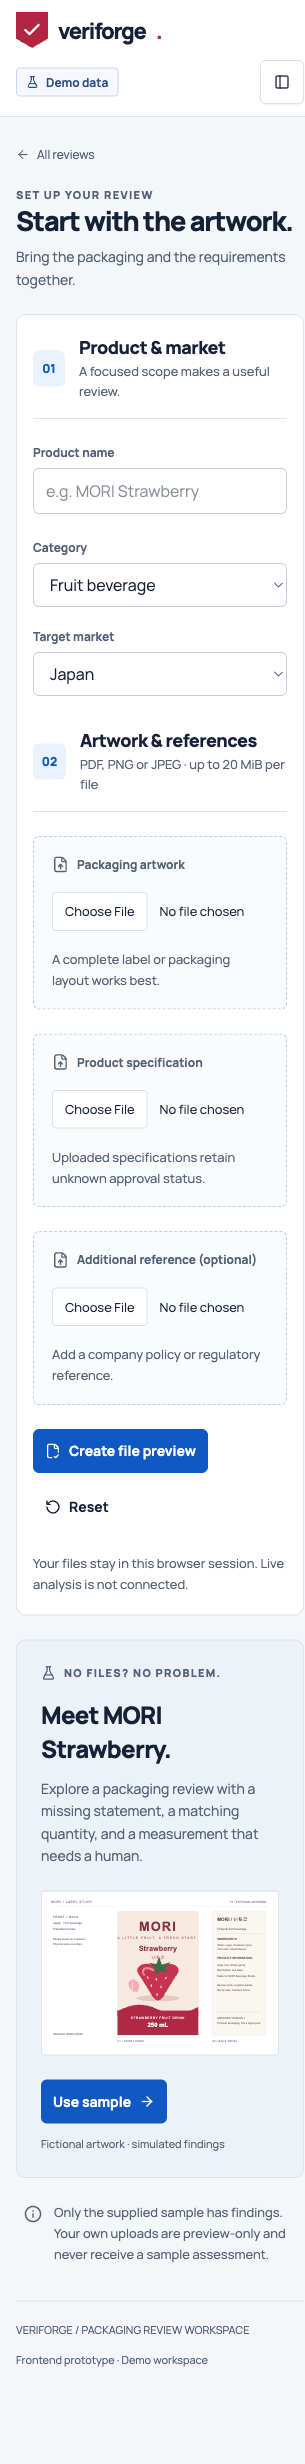
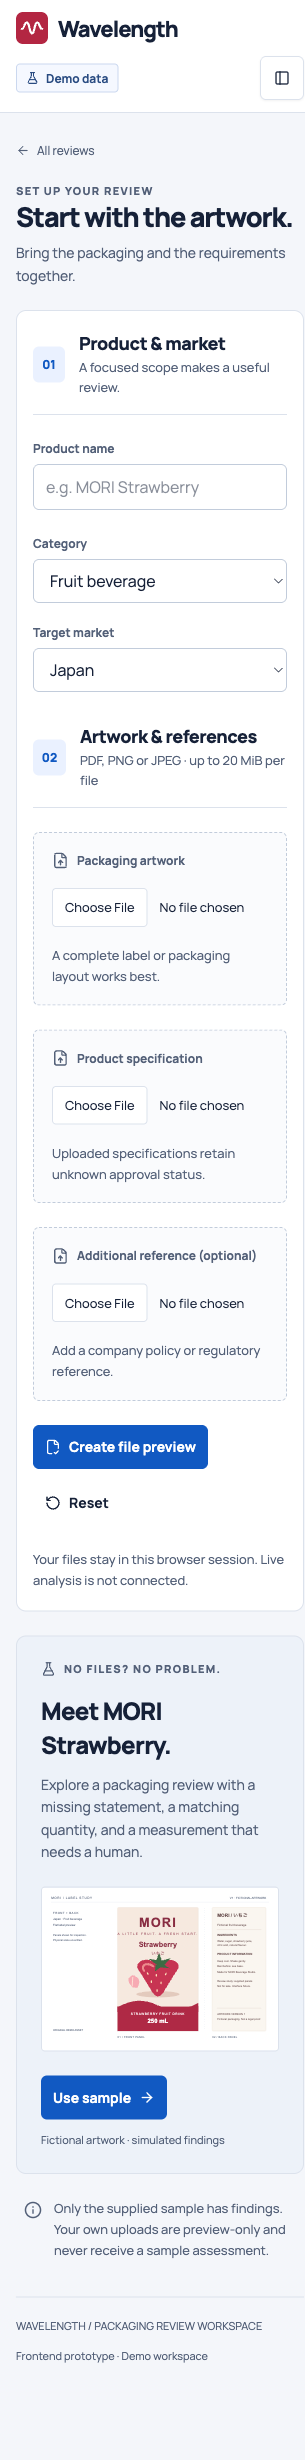
Rename product to Wavelength and unify wordmark and wave identity

diff --git a/frontend/public/demo/sample-specification.html b/frontend/public/demo/sample-specification.html
@@ -1,1 +1,1 @@
-<!doctype html><html lang="en"><meta charset="utf-8"><meta name="viewport" content="width=device-width"><title>Fictional product specification · Veriforge demo</title><style>body{font:17px/1.7 system-ui;color:#162138;max-width:720px;margin:48px auto;padding:24px;background:#f4f6fa}h1{line-height:1.2}section{background:white;padding:24px;margin:16px 0;border:1px solid #dce2ec;border-radius:10px}a{color:#1159c2}</style><body><p>VERIFORGE / ORIGINAL DEMO REFERENCE</p><h1>Fictional product specification</h1><p>Revision 1 · Temporary M1–M2 interface fixture. This document describes invented products. It is not an external regulatory source.</p><section><h2>1 · Product identity</h2><p>MORI Strawberry · Japan · Fruit beverage. Beverage specification status: fictionally approved for this sample.</p></section><section><h2>2 · Net content</h2><p>Declared net content: <strong>250 mL</strong>. Sample juice composition: 2% total juice, all strawberry, no pulp.</p></section><section><h2>3 · Physical scale</h2><p>Physical measurements are not established by this digital preview. The passed V2 sample selects text presence and net quantity only; printed type size remains outside that sample's scope.</p></section><section><h2>4 · Allergen review</h2><p>Fieldwork Berry Granola · United States · Specification status: <strong>DRAFT</strong>. Allergen declaration is awaiting product-owner confirmation. This reference cannot establish an approved requirement.</p></section><a href="/dashboard">Return to dashboard</a></body></html>
+<!doctype html><html lang="en"><meta charset="utf-8"><meta name="viewport" content="width=device-width"><link rel="icon" href="/icon.svg"><title>Fictional product specification · Wavelength demo</title><style>body{font:17px/1.7 system-ui;color:#162138;max-width:720px;margin:48px auto;padding:24px;background:#f4f6fa}h1{line-height:1.2}section{background:white;padding:24px;margin:16px 0;border:1px solid #dce2ec;border-radius:10px}a{color:#1159c2}</style><body><p>WAVELENGTH / ORIGINAL DEMO REFERENCE</p><h1>Fictional product specification</h1><p>Revision 1 · Temporary M1–M2 interface fixture. This document describes invented products. It is not an external regulatory source.</p><section><h2>1 · Product identity</h2><p>MORI Strawberry · Japan · Fruit beverage. Beverage specification status: fictionally approved for this sample.</p></section><section><h2>2 · Net content</h2><p>Declared net content: <strong>250 mL</strong>. Sample juice composition: 2% total juice, all strawberry, no pulp.</p></section><section><h2>3 · Physical scale</h2><p>Physical measurements are not established by this digital preview. The passed V2 sample selects text presence and net quantity only; printed type size remains outside that sample's scope.</p></section><section><h2>4 · Allergen review</h2><p>Fieldwork Berry Granola · United States · Specification status: <strong>DRAFT</strong>. Allergen declaration is awaiting product-owner confirmation. This reference cannot establish an approved requirement.</p></section><a href="/dashboard">Return to dashboard</a></body></html>

diff --git a/frontend/public/demo/sample-checklist.html b/frontend/public/demo/sample-checklist.html
@@ -1,1 +1,1 @@
-<!doctype html><html lang="en"><meta charset="utf-8"><meta name="viewport" content="width=device-width"><title>Illustrative review checklist · Veriforge demo</title><style>body{font:17px/1.7 system-ui;color:#162138;max-width:720px;margin:48px auto;padding:24px;background:#f4f6fa}h1{line-height:1.2}section{background:white;padding:24px;margin:16px 0;border:1px solid #dce2ec;border-radius:10px}a{color:#1159c2}</style><body><p>VERIFORGE / FICTIONAL COMPANY POLICY</p><h1>Illustrative review checklist</h1><p>Revision 1 · Draft · Temporary M1–M2 fixture. These are invented company instructions. No market regulation has been verified.</p><section><h2>1 · Juice statement</h2><p>Illustrative company rule: display the reviewed juice statement on the supplied beverage artwork. The corrected fictional fixture uses <span lang="ja">果汁2%</span>.</p></section><section><h2>2 · Selected comparisons</h2><p>Compare the declared quantity with the fictional product specification. Treat missing physical scale as uncertain.</p></section><section><h2>3 · Exclusions</h2><p>Nutrition and market-wide regulatory verification are excluded. Absence statements refer only to the supplied panels. A reviewer decision never changes a check result.</p></section><a href="/dashboard">Return to dashboard</a></body></html>
+<!doctype html><html lang="en"><meta charset="utf-8"><meta name="viewport" content="width=device-width"><link rel="icon" href="/icon.svg"><title>Illustrative review checklist · Wavelength demo</title><style>body{font:17px/1.7 system-ui;color:#162138;max-width:720px;margin:48px auto;padding:24px;background:#f4f6fa}h1{line-height:1.2}section{background:white;padding:24px;margin:16px 0;border:1px solid #dce2ec;border-radius:10px}a{color:#1159c2}</style><body><p>WAVELENGTH / FICTIONAL COMPANY POLICY</p><h1>Illustrative review checklist</h1><p>Revision 1 · Draft · Temporary M1–M2 fixture. These are invented company instructions. No market regulation has been verified.</p><section><h2>1 · Juice statement</h2><p>Illustrative company rule: display the reviewed juice statement on the supplied beverage artwork. The corrected fictional fixture uses <span lang="ja">果汁2%</span>.</p></section><section><h2>2 · Selected comparisons</h2><p>Compare the declared quantity with the fictional product specification. Treat missing physical scale as uncertain.</p></section><section><h2>3 · Exclusions</h2><p>Nutrition and market-wide regulatory verification are excluded. Absence statements refer only to the supplied panels. A reviewer decision never changes a check result.</p></section><a href="/dashboard">Return to dashboard</a></body></html>

diff --git a/frontend/src/components/app-shell.tsx b/frontend/src/components/app-shell.tsx
@@ -3,7 +3,6 @@ import Link from 'next/link';
 import { usePathname, useRouter } from 'next/navigation';
 import { useState } from 'react';
 import {
-  Check,
   LayoutDashboard,
   PanelLeft,
   ChevronRight,
@@ -14,17 +13,8 @@ import {
 } from 'lucide-react';
 import { Button } from './ui/button';
 import { Modal } from './modal';
+import { Brand } from './brand';
 import { repository, dataMode } from '@/data/repository';
-export function Brand() {
-  return (
-    <Link href="/dashboard" className="brand" aria-label="Veriforge dashboard">
-      <span className="brand-mark">
-        <Check size={20} strokeWidth={3} />
-      </span>
-      veriforge<span style={{ color: 'var(--brand)' }}>.</span>
-    </Link>
-  );
-}
 export function AppShell({ children }: { children: React.ReactNode }) {
   const pathname = usePathname();
   const router = useRouter();
@@ -59,7 +49,7 @@ export function AppShell({ children }: { children: React.ReactNode }) {
         New check
       </Link>
       <Link href="/" className="nav-link" onClick={() => setNav(false)}>
-        About Veriforge
+        About Wavelength
         <ArrowUpRight size={14} />
       </Link>
     </nav>
@@ -128,7 +118,7 @@ export function AppShell({ children }: { children: React.ReactNode }) {
       <main id="main-content" className="main-content" tabIndex={-1}>
         {children}
         <footer className="page-footer">
-          <span>VERIFORGE / PACKAGING REVIEW WORKSPACE</span>
+          <span>WAVELENGTH / PACKAGING REVIEW WORKSPACE</span>
           <span>Frontend prototype · Demo workspace</span>
         </footer>
       </main>
@@ -164,7 +154,7 @@ export function AppShell({ children }: { children: React.ReactNode }) {
                   setReset(false);
                   setMessage('Demo decisions reset.');
                   router.refresh();
-                  window.dispatchEvent(new Event('veriforge-reset'));
+                  window.dispatchEvent(new Event('wavelength-reset'));
                 } catch (e) {
                   setMessage((e as Error).message);
                   setReset(false);

diff --git a/frontend/src/components/landing/landing-nav.tsx b/frontend/src/components/landing/landing-nav.tsx
@@ -1,9 +1,10 @@
 'use client';
 import { useState } from 'react';
 import Link from 'next/link';
-import { Check, Menu, ArrowUpRight } from 'lucide-react';
+import { Menu, ArrowUpRight } from 'lucide-react';
 import { Button } from '../ui/button';
 import { Modal } from '../modal';
+import { Brand } from '../brand';
 // Navigation structure adapted from Watermelon hero-1; native modal replaces its overlay.
 export function LandingNav() {
   const [open, setOpen] = useState(false);
@@ -23,12 +24,7 @@ export function LandingNav() {
   );
   return (
     <header className="landing-nav landing-container">
-      <Link href="/" className="brand" aria-label="Veriforge home">
-        <span className="brand-mark">
-          <Check size={20} strokeWidth={3} />
-        </span>
-        veriforge<span className="brand-period">.</span>
-      </Link>
+      <Brand href="/" label="Wavelength home" />
       <nav className="landing-desktop-nav" aria-label="Main navigation">
         {links}
       </nav>
@@ -51,7 +47,7 @@ export function LandingNav() {
         </Button>
       </div>
       {open && (
-        <Modal title="Explore Veriforge" variant="drawer" onClose={() => setOpen(false)}>
+        <Modal title="Explore Wavelength" variant="drawer" onClose={() => setOpen(false)}>
           <nav className="landing-drawer-links" aria-label="Mobile navigation">
             {links}
             <Link href="/checks/mori-strawberry" onClick={() => setOpen(false)}>

diff --git a/frontend/src/app/globals.css b/frontend/src/app/globals.css
@@ -184,17 +184,19 @@ svg {
   gap: 10px;
   align-items: center;
   font-size: 22px;
-  font-weight: 800;
-  letter-spacing: -0.055em;
+  font-weight: 700;
+  letter-spacing: -0.045em;
+  white-space: nowrap;
 }
 .brand-mark {
   display: grid;
   place-items: center;
   width: 32px;
-  height: 36px;
+  height: 32px;
+  flex-shrink: 0;
+  border-radius: 7px;
   background: var(--brand);
   color: white;
-  clip-path: polygon(0 0, 100% 0, 100% 74%, 50% 100%, 0 74%);
 }
 .workspace-label {
   margin: 40px 12px 12px;
@@ -1522,9 +1524,6 @@ select {
   gap: 24px;
   border-bottom: 1px solid var(--border);
 }
-.brand-period {
-  color: var(--brand);
-}
 .landing-desktop-nav {
   display: flex;
   gap: 36px;
@@ -2250,4 +2249,28 @@ select {
     }
   }
 }
-.sample-artwork-thumb{width:100%;height:auto;display:block;margin:24px 0;border:1px solid var(--border);border-radius:4px}.nav-link{gap:10px}.sidebar .nav-link{font-size:12px}.sidebar .nav-link svg{flex-shrink:0}
+.sample-artwork-thumb {
+  width: 100%;
+  height: auto;
+  display: block;
+  margin: 24px 0;
+  border: 1px solid var(--border);
+  border-radius: 4px;
+}
+.nav-link {
+  gap: 10px;
+}
+.sidebar .nav-link {
+  font-size: 12px;
+}
+.sidebar .nav-link svg {
+  flex-shrink: 0;
+}
+
+.sidebar .brand {
+  font-size: 21px;
+  gap: 8px;
+}
+.brand-wordmark {
+  line-height: 1.2;
+}

diff --git a/frontend/src/components/landing/landing-footer.tsx b/frontend/src/components/landing/landing-footer.tsx
@@ -1,17 +1,13 @@
 import Link from 'next/link';
-import { Check, ArrowUpRight } from 'lucide-react';
+import { Brand } from '../brand';
+import { ArrowUpRight } from 'lucide-react';
 // Brand / grouped links / divided closing line adapted from Watermelon footer-1.
 export function LandingFooter() {
   return (
     <footer className="landing-footer landing-container">
       <div className="landing-footer-main">
         <div>
-          <Link href="/" className="brand">
-            <span className="brand-mark">
-              <Check size={20} strokeWidth={3} />
-            </span>
-            veriforge<span className="brand-period">.</span>
-          </Link>
+          <Brand href="/" label="Wavelength home" />
           <p>Clarity before the shelf.</p>
         </div>
         <nav aria-label="Footer navigation">
@@ -30,7 +26,7 @@ export function LandingFooter() {
         </nav>
       </div>
       <div className="landing-footer-bottom">
-        <span>© 2026 Veriforge · Hackathon prototype</span>
+        <span>© 2026 Wavelength · Hackathon prototype</span>
         <span>Limited checks. Traceable evidence. Human review.</span>
       </div>
     </footer>

diff --git a/frontend/src/components/brand.tsx b/frontend/src/components/brand.tsx
@@ -1,0 +1,26 @@
+import Link from 'next/link';
+
+/** One wordmark for the public site and review workspace. */
+export function Brand({
+  href = '/dashboard',
+  label = 'Wavelength dashboard',
+}: {
+  href?: string;
+  label?: string;
+}) {
+  return (
+    <Link href={href} className="brand" aria-label={label}>
+      <span className="brand-mark" aria-hidden="true">
+        <svg viewBox="0 0 28 28" width="26" height="26" fill="none">
+          <path
+            d="M3 15c2.75 0 2.75-7 5.5-7s2.75 12 5.5 12 2.75-12 5.5-12 2.75 7 5.5 7"
+            stroke="currentColor"
+            strokeWidth="2.3"
+            strokeLinecap="round"
+          />
+        </svg>
+      </span>
+      <span className="brand-wordmark">Wavelength</span>
+    </Link>
+  );
+}

diff --git a/frontend/src/components/review-workspace.tsx b/frontend/src/components/review-workspace.tsx
@@ -19,8 +19,8 @@ export function ReviewWorkspace({ reviewId }: { reviewId: string }) {
   const [updates, setUpdates] = useState<Record<string, ReviewDecision>>({});
   useEffect(() => {
     const clear = () => setUpdates({});
-    window.addEventListener('veriforge-reset', clear);
-    return () => window.removeEventListener('veriforge-reset', clear);
+    window.addEventListener('wavelength-reset', clear);
+    return () => window.removeEventListener('wavelength-reset', clear);
   }, []);
   const { data, loading, error, retry } = useRepository(async () => {
     const detail = await repository.getReview(reviewId);

diff --git a/frontend/tests/e2e/landing.spec.ts b/frontend/tests/e2e/landing.spec.ts
@@ -35,7 +35,7 @@ test('mobile navigation supports keyboard and restores focus', async ({ page }) 
   const trigger = page.getByRole('button', { name: 'Open navigation' });
   await trigger.focus();
   await page.keyboard.press('Enter');
-  const dialog = page.getByRole('dialog', { name: 'Explore Veriforge' });
+  const dialog = page.getByRole('dialog', { name: 'Explore Wavelength' });
   await expect(dialog).toBeVisible();
   await page.keyboard.press('Shift+Tab');
   await expect(dialog.getByRole('link', { name: 'Try sample check' })).toBeFocused();

diff --git a/frontend/src/app/page.tsx b/frontend/src/app/page.tsx
@@ -6,7 +6,7 @@ import { LandingFooter } from '@/components/landing/landing-footer';
 import { SamplePreview } from '@/components/landing/sample-preview';
 import { Button } from '@/components/ui/button';
 export const metadata: Metadata = {
-  title: 'Veriforge · Clarity before the shelf',
+  title: 'Wavelength · Clarity before the shelf',
   description:
     'Check your packaging before it reaches the shelf. Explore artwork, linked reference evidence, and suggested corrections in an interactive packaging review demo.',
 };

diff --git a/frontend/src/components/use-repository.ts b/frontend/src/components/use-repository.ts
@@ -30,8 +30,8 @@ export function useRepository<T>(loader: () => Promise<T>, deps: readonly unknow
   }, [...deps, attempt]);
   useEffect(() => {
     const reset = () => setAttempt((n) => n + 1);
-    window.addEventListener('veriforge-reset', reset);
-    return () => window.removeEventListener('veriforge-reset', reset);
+    window.addEventListener('wavelength-reset', reset);
+    return () => window.removeEventListener('wavelength-reset', reset);
   }, []);
   return { ...state, retry: () => setAttempt((n) => n + 1) };
 }

diff --git a/frontend/src/app/layout.tsx b/frontend/src/app/layout.tsx
@@ -2,7 +2,7 @@ import type { Metadata } from 'next';
 import './globals.css';
 import { AppShell } from '@/components/app-shell';
 export const metadata: Metadata = {
-  title: { default: 'Veriforge · Packaging reviews', template: '%s · Veriforge' },
+  title: { default: 'Wavelength · Packaging reviews', template: '%s · Wavelength' },
   description:
     'Inspect packaging artwork, compare selected requirements, and review linked evidence. Frontend demo with simulated findings.',
 };
